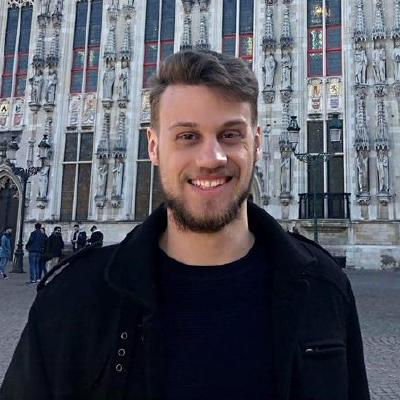
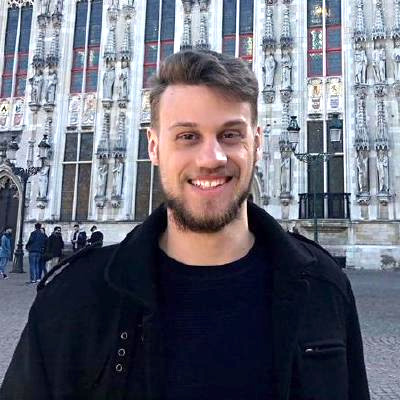
mod colors / light photo

diff --git a/index.html b/index.html
@@ -107,65 +107,6 @@
             </div>
         </div>
         <div id="contentContainer">
-            <!-- hard skills -->
-            <div>
-                <h3 class="contentTitle">Hard skills</h3>
-                <div id="hardSkillsContent">
-                    <div class="hardSkillEl">
-                        <h5>Technologies</h5>
-                        <ul>
-                            <li>Javascript</li>
-                            <li>HTML5</li>
-                            <li>CSS3</li>
-                            <li>PHP</li>
-                        </ul>
-                    </div>
-                    <div class="hardSkillEl">
-                        <h5>Frameworks & Libraries</h5>
-                        <ul>
-                            <li>React.js</li>
-                            <li>React Native</li>
-                            <li>Meteor</li>
-                            <li>Vue.js</li>
-                            <li>Angular</li>
-                            <li>Socket.io</li>
-                        </ul>
-                    </div>
-                    <div class="hardSkillEl">
-                        <h5>Backend & Services</h5>
-                        <ul>
-                            <li>Node.js</li>
-                            <li>Firebase</li>
-                            <li>MongoDB</li>
-                            <li>MySQL</li>
-                        </ul>
-                    </div>
-                    <div class="hardSkillEl">
-                        <h5>Version Control</h5>
-                        <ul>
-                            <li>Git</li>
-                        </ul>
-                    </div>
-                </div>
-            </div>
-
-            <!-- soft skills -->
-            <h3 class="contentTitle">Soft skills</h3>
-            <div id="softSkillsContent">
-                <ul class="softSkillEl">
-                    <li>Cooperative</li>
-                    <li>Optimistic</li>
-                    <li>Patient</li>
-                    <li>Honest</li>
-                </ul>
-                <ul class="softSkillEl">
-                    <li>Receptive</li>
-                    <li>Flexible</li>
-                    <li>Self-motivated</li>
-                    <li>Self-employed</li>
-                </ul>
-            </div>
-
             <!-- etudes & formations -->
             <h3 class="contentTitle">Studies & Trainings</h3>
             <div class="listContent">
@@ -251,6 +192,65 @@
                 <div>
                     <p class="listContentText textAlignRight">head of ICT</p>
                 </div>
+            </div>
+
+            <!-- hard skills -->
+            <div>
+                <h3 class="contentTitle">Hard skills</h3>
+                <div id="hardSkillsContent">
+                    <div class="hardSkillEl">
+                        <h5>Technologies</h5>
+                        <ul>
+                            <li>Javascript</li>
+                            <li>HTML5</li>
+                            <li>CSS3</li>
+                            <li>PHP</li>
+                        </ul>
+                    </div>
+                    <div class="hardSkillEl">
+                        <h5>Frameworks & Libraries</h5>
+                        <ul>
+                            <li>React.js</li>
+                            <li>React Native</li>
+                            <li>Meteor</li>
+                            <li>Vue.js</li>
+                            <li>Angular</li>
+                            <li>Socket.io</li>
+                        </ul>
+                    </div>
+                    <div class="hardSkillEl">
+                        <h5>Backend & Services</h5>
+                        <ul>
+                            <li>Node.js</li>
+                            <li>Firebase</li>
+                            <li>MongoDB</li>
+                            <li>MySQL</li>
+                        </ul>
+                    </div>
+                    <div class="hardSkillEl">
+                        <h5>Version Control</h5>
+                        <ul>
+                            <li>Git</li>
+                        </ul>
+                    </div>
+                </div>
+            </div>
+
+            <!-- soft skills -->
+            <h3 class="contentTitle">Soft skills</h3>
+            <div id="softSkillsContent">
+                <ul class="softSkillEl">
+                    <li>Cooperative</li>
+                    <li>Optimistic</li>
+                    <li>Patient</li>
+                    <li>Honest</li>
+                </ul>
+                <ul class="softSkillEl">
+                    <li>Receptive</li>
+                    <li>Flexible</li>
+                    <li>Self-motivated</li>
+                    <li>Self-employed</li>
+                </ul>
             </div>
 
         </div>

diff --git a/style.css b/style.css
@@ -8,8 +8,8 @@ html, body {
     box-sizing: border-box;
 }
 :root {
-    --mainColor: #657B8B;
-    --secColor: #FFEEDD;
+    --mainColor: #fcedde;
+    --secColor: #657B8B;
 }
 
 #mainContainer {
@@ -34,7 +34,8 @@ html, body {
 #contentContainer {
     flex: 5;
     padding: 20px 38px;
-    color: #FEFEFE;
+    /* color: #FEFEFE; */
+    color: #444;
 }
 
 /* info containers */
@@ -76,7 +77,7 @@ html, body {
 .void {
     height: 10px;
     width: 10px;
-    background-color: #CCC;
+    background-color: #919191;
     border-radius: 50%;
     display: inline-block;
 }
